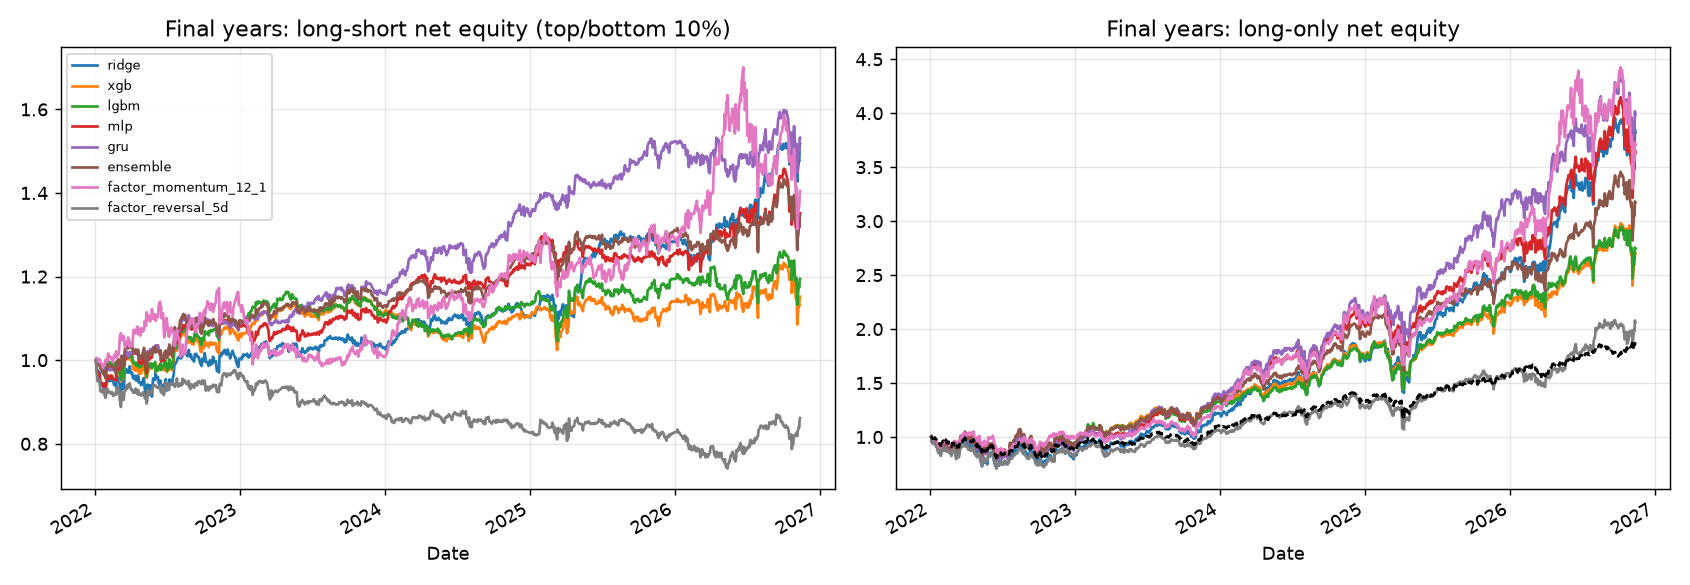
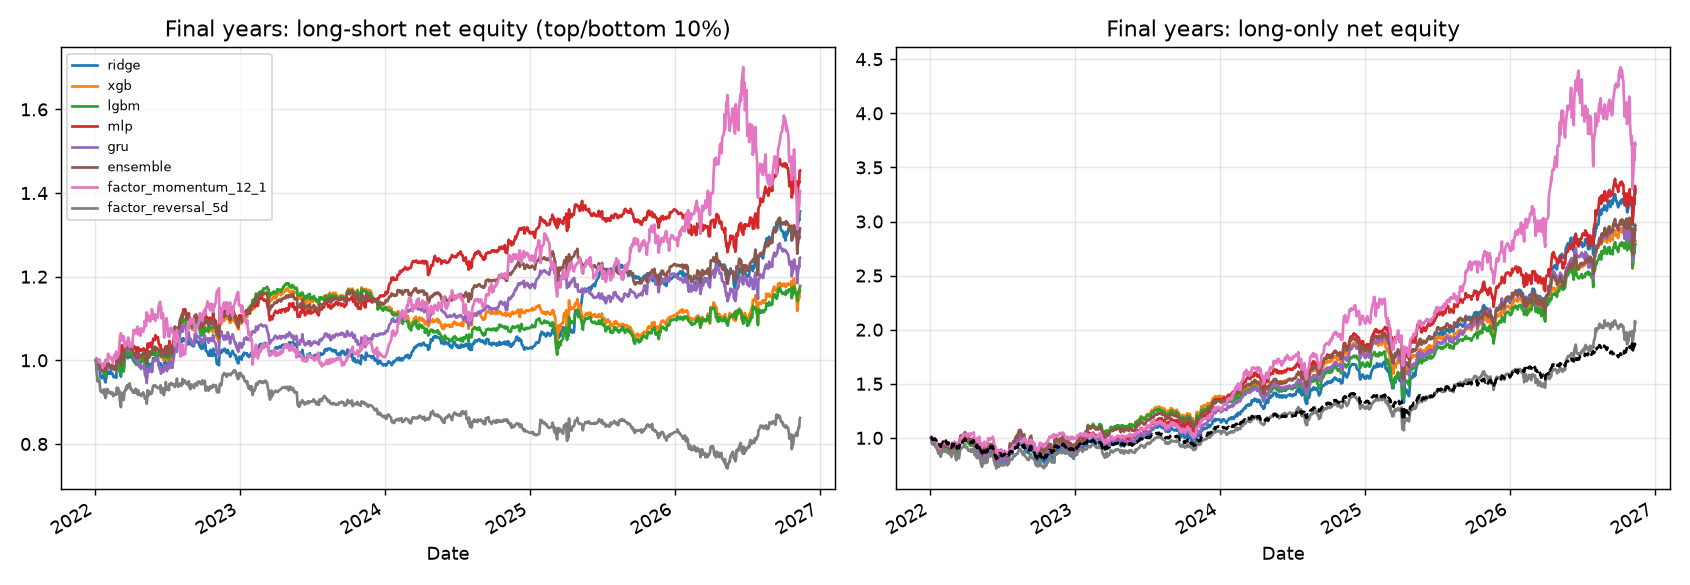
Add round three results and final metrics to README

diff --git a/README.md b/README.md
@@ -254,6 +254,43 @@ python -m ml2.forward score                     # rank IC and top-minus-bottom r
   hand-computed ranking.
 - Run `predict` every trading day and `score` every week. A few hundred days would settle what 118 cannot.
 
+### Round three: targets, turnover, features, wider search
+
+The tables above come from the first config (commit 7d1d730). Round three changed the dataset (133 features,
+four new groups) and tested five ideas, tuning only on 2013-2018 and validating on 2019-2021. The final years
+were scored once, for one config fixed in commit 3527229. Code: `ml2/phase1.py` to `phase3.py`, `ml2/search.py`.
+
+| Idea | Result |
+|---|---|
+| Sector-neutral target (rank within sector) | Helped XGBoost and LightGBM on both periods. Adopted. |
+| Longer targets (10-day rank, mean rank over 5/10/21 days) | GRU Sharpe 0.96 to about 1.15-1.19 and turnover 57x to 43x on the tune years. Adopted at 10 days. |
+| Residual, volatility-scaled and triple-barrier targets | Worse than the rank target. Dropped. |
+| Turnover penalty in the loss | Never helped the GRU. The MLP at the largest penalty matched the Sharpe at one-seventh of the turnover, but other penalty values were unstable. Left in the search space only. |
+| Four new feature groups, dropping old groups | No change held on both periods. Dropping the market group helped on 2013-2018 and reversed on 2019-2021. Nothing adopted. |
+| Search with the new targets and penalty | 228 trials. Three finalists passed the gate (two GRUs, one MLP). One GRU and the MLP were adopted. |
+
+Net long-short Sharpe, old config against new config:
+
+| Model | Dev old | Dev new | Final old | Final new |
+|---|---|---|---|---|
+| XGBoost | 0.69 | 0.83 | 0.32 | 0.40 |
+| MLP | 0.96 | 1.05 | 0.66 | 0.92 |
+| GRU | 1.26 | 1.23 | 1.00 | 0.54 |
+| Ensemble | 1.04 | 1.30 | 0.66 | 0.69 |
+
+- **The dev gain did not carry over.** The ensemble rose from 1.04 to 1.30 on dev, which includes the years
+  the search tuned on, and from 0.66 to 0.69 on 2022-2026. Its rank IC fell from 0.034 to 0.030.
+- **The GRU got worse out of sample.** The adopted GRU passed the gate on 2019-2021 (Sharpe 1.58) and scored
+  0.54 on the final years. This repeats the MLP failure above: a config picked from many trials loses most of
+  its edge. Only the MLP and the tree models improved, and by amounts inside the bootstrap intervals.
+- **Pristine tail:** the new ensemble scored rank IC 0.036 and long-short Sharpe 1.33, against 1.50 for the
+  universe long-only. 118 days cannot separate it from the old config.
+- **Conclusion:** the sector target and longer horizons are the changes most likely to be real, because they
+  helped on every split for several models. Differences below about 0.2 Sharpe are noise at this sample size.
+  The model choice and the search gains are not established. The forward test is the remaining evidence.
+- **Not rerun:** the bootstrap intervals and cost tables above still describe the first config.
+  `ml2.final` now picks the ensemble as the headline model by dev Sharpe.
+
 ## Limitations
 
 - **Survivorship bias (largest):** v2 trades today's S&P 500 members, which have tended to rise. v1 used two
@@ -304,4 +341,4 @@ streamlit run app/streamlit_app.py   # v1 page, plus "2 v2 results" in the sideb
 - Run the forward test for a few hundred trading days.
 - Select models on validation long-short Sharpe and rank IC together.
 - Volatility targeting, regime filters, triple-barrier labels, purged k-fold cross-validation.
-- A turnover-aware training loss, since turnover decided which model survived costs.
+- Rerun the bootstrap and cost tables for the round-three config, with intervals that count the trials searched.
